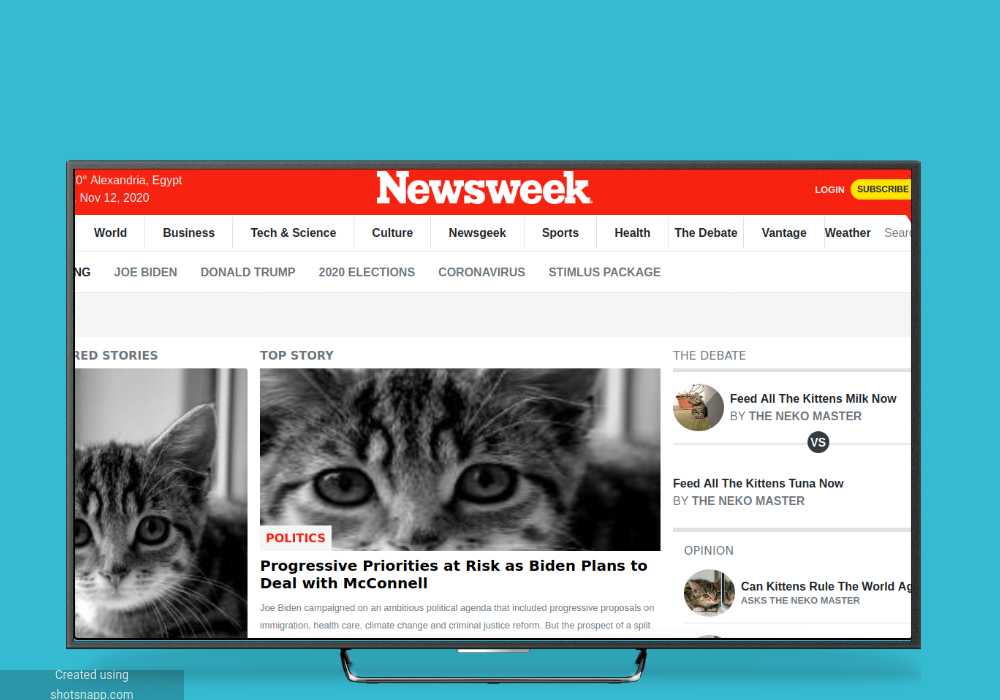
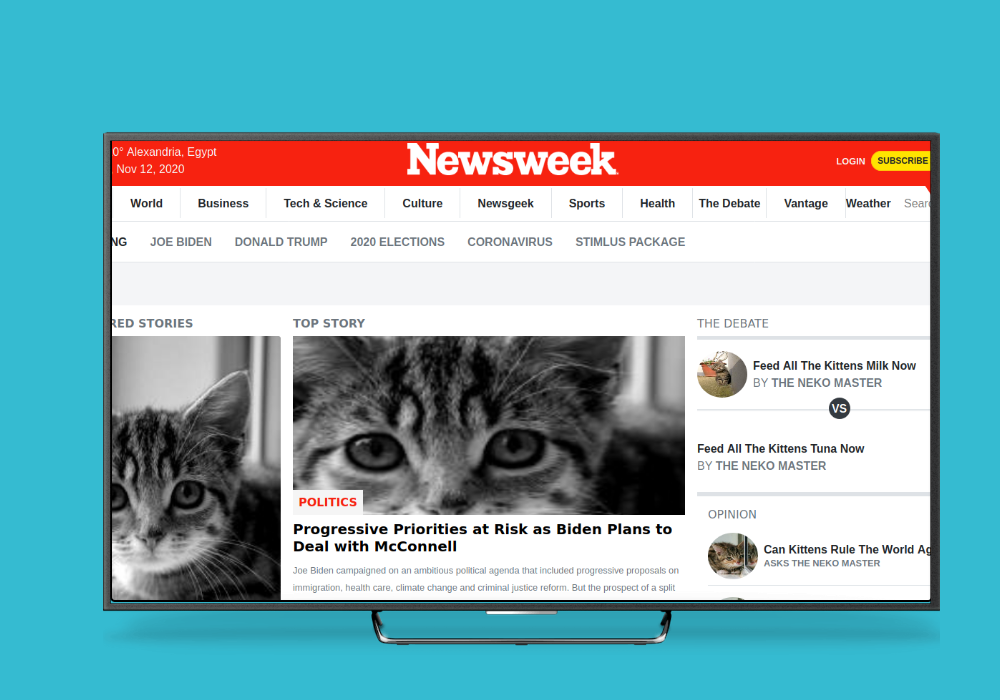
Add portfolio css

diff --git a/index.html b/index.html
@@ -90,13 +90,13 @@
           <a
             href="https://fierce-depths-10676.herokuapp.com/"
             target="_blank"
-            class="grid-3"
+            class="grid-3 d-block d-md-none"
           ></a>
           <div class="grid-3 d-none d-md-block">
             <h3 class="p-3 text-danger text-uppercase d-none d-md-block">
               Kwitter
             </h3>
-            <ul class="list-3 d-none d-md-block">
+            <ul class="list-3 d-none d-md-flex">
               <li>HTML/CSS</li>
               <li>Ruby on Rails</li>
             </ul>
@@ -114,11 +114,25 @@
             target="_blank"
             class="grid-4 position-relative"
           ></a>
-          <a href="#" class="grid-a"></a>
+          <a href="#" class="grid-a d-block d-md-none"></a>
+          <div class="first-grid-flex d-none d-md-flex">
+            <div class="grid-5">
+              <h3 class="p-2 text-dark">TNW CLONE</h3>
+              <ul class="list-2">
+                <li>HTML/CSS</li>
+                <a
+                  href="https://raw.githack.com/MrkarlosM/tnw-clone/main/index.html"
+                  target="_blank"
+                  class="btn-5"
+                  >See this project</a
+                >
+              </ul>
+            </div>
+          </div>
         </div>
       </div>
     </div>
-    <div id="Services" class="">
+    <div id="Services" class="d-none">
       <div class="left-boxes">
         <div>
           <div class="icon-1">

diff --git a/assets/style.css b/assets/style.css
@@ -336,7 +336,7 @@ a {
 
 .second-grid {
   display: grid;
-  grid-template-columns: 2fr 1fr;
+  grid-template-columns: 1fr 1fr;
   grid-template-rows: 558px;
 }
 
